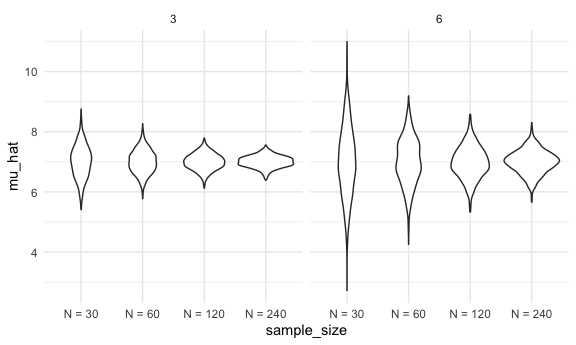
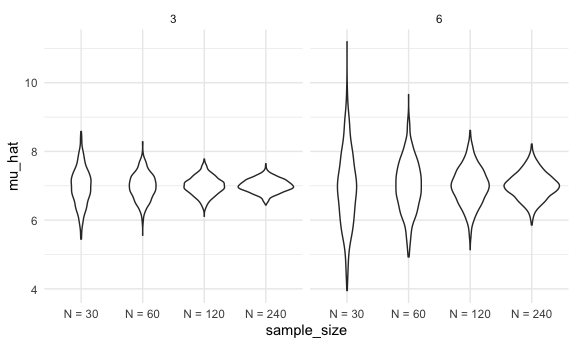
just commit

diff --git a/simulations.md b/simulations.md
@@ -28,7 +28,7 @@ sim_mean_sd(n_obs = 30)
     ## # A tibble: 1 × 2
     ##   mu_hat sigma_hat
     ##    <dbl>     <dbl>
-    ## 1   6.43      2.90
+    ## 1   7.15      5.35
 
 How can we use this now
 
@@ -110,10 +110,10 @@ sim_results_df %>%
     ## # A tibble: 4 × 2
     ##   sample_size emp_st_err
     ##   <fct>            <dbl>
-    ## 1 N = 30           0.740
-    ## 2 N = 60           0.486
-    ## 3 N = 120          0.362
-    ## 4 N = 240          0.250
+    ## 1 N = 30           0.737
+    ## 2 N = 60           0.501
+    ## 3 N = 120          0.359
+    ## 4 N = 240          0.255
 
 ## let’s see two inputs…
 
